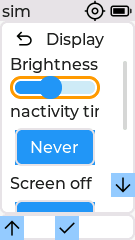
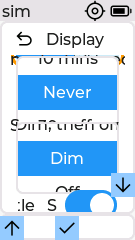
power: add the staged dim-to-off display mode
P-018: add 'Dim, then off' as a persisted mode. The panel dims at the
inactivity timeout and sleeps 30 s later; existing Dim and Off are
unchanged. The touch roller maps its third row to the new value.

Add the display policy helper and host test, the simulator scenario,
settings and walkthrough text, and regenerate the display screenshot.

diff --git a/src/FurbleUI.cpp b/src/FurbleUI.cpp
@@ -37,6 +37,7 @@
 #include "FurbleCalibrate.h"
 #include "FurbleCompanion.h"
 #include "FurbleControl.h"
+#include "FurbleDisplayPolicy.h"
 #include "FurbleFeedback.h"
 #include "FurbleGPS.h"
 #include "FurbleGPSFormat.h"
@@ -443,7 +444,7 @@ UI::UI(const interval_t &interval)
   auto brightness = Settings::load<Settings::BRIGHTNESS>();
   M5.Display.setBrightness(brightness);
   m_DisplayOffMode = Settings::displayOffEffective();
-  if (m_DisplayOffMode > 2) {
+  if (m_DisplayOffMode > 3) {
     m_DisplayOffMode = 0;
   }
   setInactivityTimeout(Settings::inactivityEffective());
@@ -10597,11 +10598,17 @@ void UI::addDisplayMenu(const menu_t &parent) {
   // still shows the selected option and the encoder still scrolls the rest.
   lv_roller_set_visible_row_count(roller, M5.Touch.isEnabled() ? 2 : 1);
   uint8_t displayOff = m_DisplayOffMode;
-  if (displayOff > 2) {
+  if (displayOff > 3) {
     displayOff = 0;
   }
-  if (M5.Touch.isEnabled() && displayOff == 2) {
-    displayOff = 1;
+  if (M5.Touch.isEnabled()) {
+    // Touch boards have three rows: Dim (0), Off (1), Dim then off (3).
+    // Remote-on (2) is not offered and maps to Off.
+    if (displayOff == 2) {
+      displayOff = 1;
+    } else if (displayOff == 3) {
+      displayOff = 2;
+    }
   }
   lv_roller_set_selected(roller, displayOff, LV_ANIM_ON);
 
@@ -10611,8 +10618,8 @@ void UI::addDisplayMenu(const menu_t &parent) {
         auto *ui = static_cast<UI *>(lv_event_get_user_data(e));
         auto *roller = static_cast<lv_obj_t *>(lv_event_get_target(e));
         uint8_t displayOff = lv_roller_get_selected(roller);
-        if (M5.Touch.isEnabled() && displayOff > 1) {
-          displayOff = 1;
+        if (M5.Touch.isEnabled() && displayOff == 2) {
+          displayOff = 3;
         }
         Settings::save<Settings::DISPLAY_OFF>(displayOff);
         ui->m_DisplayOffMode = displayOff;
@@ -12352,6 +12359,7 @@ void UI::processInactivity(void) {
       auto brightness = Settings::load<Settings::BRIGHTNESS>();
       M5.Display.setBrightness(brightness);
       m_DisplayState = DisplayState::ACTIVE;
+      m_DimSinceMs = 0;
 #if defined(FURBLE_SIM)
       Sim::profilerSetDisplayState("on");
 #endif
@@ -12363,15 +12371,26 @@ void UI::processInactivity(void) {
 
   switch (m_DisplayOffMode) {
     case 0:
+    case 3:
       if (m_DisplayState == DisplayState::OFF) {
-        wakeDisplay();
+        // Mode 0 wakes a panel left asleep by a previous mode. Mode 3 is the
+        // one that puts it to sleep, so it must stay asleep until activity.
+        if (m_DisplayOffMode == 0) {
+          wakeDisplay();
+        }
+        break;
       }
       if (m_DisplayState == DisplayState::ACTIVE) {
         M5.Display.setBrightness(m_MinimumBrightness);
         m_DisplayState = DisplayState::DIM;
+        m_DimSinceMs = tick();
 #if defined(FURBLE_SIM)
         Sim::profilerSetDisplayState("dim");
 #endif
+      } else if ((m_DisplayOffMode == 3) && (m_DisplayState == DisplayState::DIM)
+                 && DisplayPolicy::dimToOffDue(true, tick(), m_DimSinceMs)) {
+        // Additive staged mode: dim first, then sleep after a fixed dwell.
+        sleepDisplay();
       }
       break;
     case 1:

diff --git a/tests/host/display_policy_test.cpp b/tests/host/display_policy_test.cpp
@@ -1,0 +1,43 @@
+#include <cstdint>
+#include <cstdio>
+
+#include "FurbleDisplayPolicy.h"
+
+namespace {
+
+int failures = 0;
+
+void check(bool condition, const char *message) {
+  if (!condition) {
+    std::fprintf(stderr, "FAIL: %s\n", message);
+    failures++;
+  }
+}
+
+}  // namespace
+
+int main() {
+  using Furble::DisplayPolicy::DIM_TO_OFF_MS;
+  using Furble::DisplayPolicy::dimToOffDue;
+
+  check(DIM_TO_OFF_MS == 30000, "the dim dwell is 30 s");
+  check(!dimToOffDue(true, 1000, 1000), "the first dim tick is not due");
+  check(!dimToOffDue(true, 30999, 1000), "29.999 s is not due");
+  check(dimToOffDue(true, 31000, 1000), "30 s is due");
+  check(dimToOffDue(true, 40000, 1000), "past the dwell is due");
+
+  // Activity restores the panel and clears the dim flag in the UI; the helper
+  // must not fire when the panel is not dimmed.
+  check(!dimToOffDue(false, 40000, 1000), "an active panel is never due");
+
+  // The millisecond tick wraps about every 49 days. Subtraction is modulo
+  // 2^32, so the dwell still measures correctly across the wrap.
+  check(dimToOffDue(true, 30000, 0xFFFFFFF0U), "a wrapped tick past the dwell is due");
+  check(!dimToOffDue(true, 20000, 0xFFFFFFF0U), "a wrapped tick before the dwell is not due");
+
+  if (failures != 0) {
+    return 1;
+  }
+  std::printf("Display dim-to-off policy: PASS\n");
+  return 0;
+}

diff --git a/include/FurbleUI.h b/include/FurbleUI.h
@@ -754,8 +754,8 @@ class UI {
 
   // settings
   static constexpr const char *m_DisplayStr = "Display";
-  static constexpr const char *m_DisplayOffOptions = "Dim\nOff\nOff, remote on";
-  static constexpr const char *m_DisplayOffTouchOptions = "Dim\nOff";
+  static constexpr const char *m_DisplayOffOptions = "Dim\nOff\nOff, remote on\nDim, then off";
+  static constexpr const char *m_DisplayOffTouchOptions = "Dim\nOff\nDim, then off";
   static constexpr const char *m_TextSizeStr = "Text size";
   static constexpr const char *m_LegendStr = "Legend";
   static constexpr const char *m_FeaturesStr = "Features";
@@ -1102,6 +1102,8 @@ class UI {
   uint32_t m_InactivityTimeout;
   uint8_t m_DisplayOffMode = 0;
   DisplayState m_DisplayState = DisplayState::ACTIVE;
+  // Tick when the panel entered DIM, for the staged "Dim, then off" mode.
+  uint32_t m_DimSinceMs = 0;
   bool m_DisplayOff = false;
   bool m_SwallowInput = false;
   uint8_t m_SwallowPending = 0;

diff --git a/include/FurbleDisplayPolicy.h b/include/FurbleDisplayPolicy.h
@@ -1,0 +1,27 @@
+#ifndef FURBLE_DISPLAY_POLICY_H
+#define FURBLE_DISPLAY_POLICY_H
+
+#include <cstdint>
+
+namespace Furble {
+namespace DisplayPolicy {
+
+/**
+ * How long the panel stays dimmed before a "Dim, then off" mode sleeps it.
+ *
+ * This mode is additive: the existing Dim and Off modes are unchanged. The
+ * delay is measured from the moment the display entered DIM, not from the
+ * inactivity timeout, so user activity that restores the panel also restarts
+ * the dim dwell.
+ */
+constexpr uint32_t DIM_TO_OFF_MS = 30 * 1000;
+
+/** True when a dimmed panel has stayed dim for the full dwell. Wrap-safe. */
+constexpr bool dimToOffDue(bool dimmed, uint32_t now, uint32_t dimSince) {
+  return dimmed && (static_cast<uint32_t>(now - dimSince) >= DIM_TO_OFF_MS);
+}
+
+}  // namespace DisplayPolicy
+}  // namespace Furble
+
+#endif  // FURBLE_DISPLAY_POLICY_H

diff --git a/docs/power/opportunity-matrix.md b/docs/power/opportunity-matrix.md
@@ -46,7 +46,7 @@ Rank groups:
 
 ## Safe now
 
-Twenty-one safe-now rows are implemented in this branch. See section
+Twenty-two safe-now rows are implemented in this branch. See section
 "Implemented safe-now changes" for the code and test evidence.
 
 | ID | Lane | Current behavior | Proposed change | Evidence | Est. saving | Risk | Effort | Required test | Priority | Lane source |
@@ -119,6 +119,7 @@ evidence label from the lane and adds the test that now guards it.
 | P-008 | Power-lock acquire/release and the Lumix GPS per-fix path log at DEBUG, and the GPS command/poll lines are demoted. | `src/FurblePower.cpp`, `lib/furble/Lumix.cpp`, `lib/furble/FauxNY.cpp`, `lib/furble/NikonSmart.cpp`, `src/FurbleGPS.cpp` | `tools/check_hot_path_logs.py` plus `tests/test_hot_path_logs.py` | implemented |
 | P-032 | A wired address defers the station. The worker rechecks every 5 s, restarts the station when the wire drops, and stops it if the wire returns. | `src/FurbleWiFi.cpp` | host `real-wifi-lifecycle` with the injected Ethernet transport: deferral set while linked, cleared and re-armed after link-down | implemented |
 | P-020 | The M5PM1 button is polled every 20 ms instead of every 5 ms UI pass. | `src/FurblePlatform.cpp`, `include/FurblePlatformPolicy.h` | host `pm1-poll-policy`: 19 ms not due, 20 ms due, wrap-safe; hardware click/soak remains in the row test | implemented |
+| P-018 | Adds "Dim, then off" as a persisted fourth mode on button boards and third mode on touch boards. It dims at the inactivity timeout and sleeps the panel 30 s later; existing Dim and Off are unchanged. | `src/FurbleUI.cpp`, `include/FurbleDisplayPolicy.h` | host `display-policy`: 30 s boundary and wrap; e2e `display-dim-then-off`; settings docs and `settings-display.png` regenerated | implemented |
 
 The modeled saving for these rows is unchanged and still unmeasured. P-001 and
 P-002 bound a worst case; they do not change steady-state current. P-003 halves
@@ -134,14 +135,12 @@ retry loop in the failure case. P-029 and P-033 reduce join-scan probe traffic
 and steady-state retry frequency. P-034 removes the idle Wi-Fi task and netif.
 P-013 cuts camera-task idle wakeups fivefold. P-008 removes hot-path INFO
 logging and adds a guard against its return. P-032 removes the station on a
-wired node. P-020 cuts the PM1 button bus traffic tenfold.
+wired node. P-020 cuts the PM1 button bus traffic tenfold. P-018 adds the
+staged dim-to-off mode without changing the existing modes.
 
-One safe-now row is deliberately not applied in this batch:
-
-- P-018 (staged dim-to-off) adds a persisted display mode, a settings roller
-  entry, documentation, and regenerated walkthrough screenshots. It is a UI
-  feature rather than a mechanical power change and belongs in its own batch so
-  the screenshots can be reviewed with it.
+P-018 is now applied. The display settings roller gained the new mode, the
+settings documentation was updated, and `docs/img/settings-display.png` was
+regenerated from the current build.
 
 Three safe-now rows are deliberately not applied yet:
 

diff --git a/docs/power/summary.md b/docs/power/summary.md
@@ -1,6 +1,6 @@
 # Power research: executive summary
 
-Status: consolidation of the seven lane reports, plus twenty-one implemented
+Status: consolidation of the seven lane reports, plus twenty-two implemented
 safe-now changes. No bench measurement was made by any lane. The implemented
 changes are bounded behavior fixes, not measured savings:
 P-001 (60 s first-boot scan timeout), P-002 (stop the scan on panel sleep),
@@ -13,8 +13,9 @@ P-016 (icon timer at 500 ms), P-030 (MQTT owner reloads on demand), P-024
 (the Waveshare release drops the console), P-028 (wrong-passphrase and
 no-AP stop), P-029 (no hidden-SSID join scan), P-033 (300 s transient retry
 cap), P-034 (lazy Wi-Fi init), P-013 (250 ms camera-task idle), P-008 (hot-path logs
-at DEBUG), P-032 (wired-node station gating), and P-020 (20 ms PM1 poll). Each
-has a test; see the matrix section "Implemented safe-now changes".
+at DEBUG), P-032 (wired-node station gating), P-020 (20 ms PM1 poll), and P-018
+(staged dim-to-off). Each has a test; see the matrix section "Implemented
+safe-now changes".
 
 The matrix has 201 rows: 39 safe now, 77 needs measurement, and 85 rejected. Per
 lane: BLE 42, SoC 31, Display 25, GPS and IMU 30, Wi-Fi 40, Board 33. Overlapping
@@ -34,7 +35,7 @@ default off. Almost every number is modeled or inferred.
 
 Closed without bench hardware: the opportunity matrix, the datasheet register
 including per-board coverage in section 13, the lowest-power GPS profile in
-`gps-profile.md`, the measurement plan, and twenty-one safe-now changes with
+`gps-profile.md`, the measurement plan, and twenty-two safe-now changes with
 tests.
 
 Still open: every current and energy number. That includes the board floor,

diff --git a/docs/settings-and-controls.md b/docs/settings-and-controls.md
@@ -83,7 +83,7 @@ that do not fit; focus outlines must not cover adjacent setting names.
 | :--- | :--- | :--- | :--- | :--- |
 | Brightness | 128 | slider, roughly 0 to 240 | Now (live preview) | Saved when you release the slider. |
 | Inactivity timeout | Never | Never, 30 secs, 60 secs, 2 mins, 5 mins, 10 mins | Now | Dims and then sleeps the screen after this idle time. |
-| Screen off | Dim | Dim, Off, Off remote on (button boards). Dim, Off (touch boards) | Restart | Touch boards do not offer the remote-on option. |
+| Screen off | Dim | Dim, Off, Off remote on, Dim then off (button boards). Dim, Off, Dim then off (touch boards) | Restart | Touch boards do not offer the remote-on option. Dim then off dims at the inactivity timeout and sleeps the panel 30 s later. |
 | Calibrate | n/a | action | n/a | Touch boards only. Launches touch calibration and stores the result. |
 | Show Title | On | On, Off | Restart | Hiding the title frees header space on narrow stick displays. |
 | Legend | Buttons | Buttons, Bottom, Off | Restart | Physical-button Stick boards only. Buttons keeps the shipped Right legend beside its button; Bottom places all three legends in the navigation band; Off hides the rendered indicators but retains physical input anchors and layout reservation. |

diff --git a/docs/ui-walkthrough.md b/docs/ui-walkthrough.md
@@ -242,8 +242,9 @@ Scroll down to reach Screen off and Show Title:
 
 - **Brightness**: screen brightness slider with a live preview.
 - **Inactivity timeout**: dim then sleep the screen after an idle period.
-- **Screen off**: what the inactivity timeout does (Dim, Off, or Off with the
-  remote still active on button boards).
+- **Screen off**: what the inactivity timeout does (Dim, Off, Off with the
+  remote still active on button boards, or Dim then off: dim at the timeout,
+  sleep 30 seconds later). Touch boards offer Dim, Off, and Dim then off.
 - **Calibrate**: touch calibration. Touch boards only.
 - **Show Title**: show or hide the window title in the header.
 - **Legend**: on physical-button Stick boards, keep the shipped Buttons
